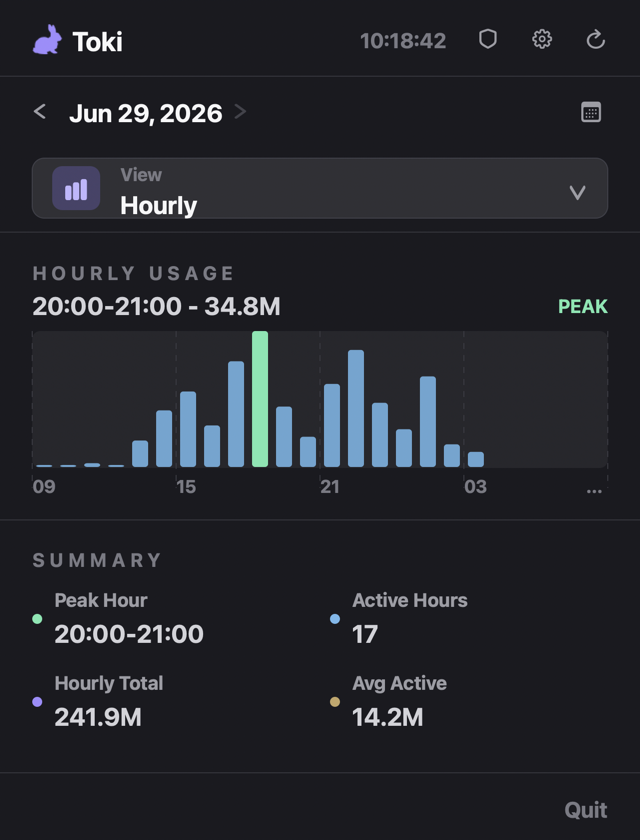
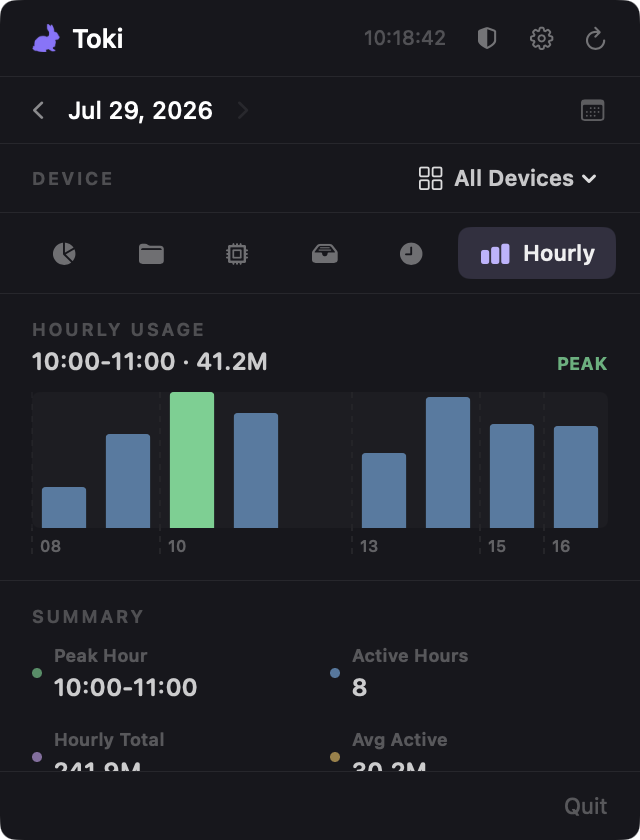
docs(readme): refresh screenshots and feature details

diff --git a/README.md b/README.md
@@ -10,10 +10,11 @@ Toki is a local-first macOS menu bar app for tracking token usage, cost,
 project attribution, and AI work time across Claude Code, Codex, Hermes,
 Cursor, Gemini CLI, GJC, OpenCode, and OpenClaw.
 
-It reads each tool's local usage store and gives you a single popover for daily
-totals, date ranges, exports, and security checks. Optional end-to-end encrypted
-remote sync can add those same supported local sources from Linux/Ubuntu or
-other macOS computers without giving Toki SSH or filesystem access.
+It reads each tool's local usage store and gives you a six-tab popover for daily
+totals, date ranges, projects, models, sources, work time, hourly usage, exports,
+and security checks. Optional end-to-end encrypted remote sync can add those
+same supported local sources from Linux/Ubuntu or other macOS computers without
+giving Toki SSH or filesystem access.
 
 ---
 
@@ -21,11 +22,11 @@ other macOS computers without giving Toki SSH or filesystem access.
 
 | Overview | Projects | Models |
 | --- | --- | --- |
-| <img src="Screenshots/screenshot_overview.png" width="220" alt="Overview view showing total tokens and period totals" /> | <img src="Screenshots/screenshot_projects.png" width="220" alt="Projects view showing attributed cost and sessions" /> | <img src="Screenshots/screenshot_models.png" width="220" alt="Models view showing token and cost breakdown by model, including GJC" /> |
+| <img src="Screenshots/screenshot_overview.png" width="220" alt="Overview tab showing total tokens and seven-day, thirty-day, and all-time totals" /> | <img src="Screenshots/screenshot_projects.png" width="220" alt="Projects tab showing attribution summary and top project usage" /> | <img src="Screenshots/screenshot_models.png" width="220" alt="Models tab showing token and cost breakdown with relative token-share bars" /> |
 
-| Sources | Time | Hourly |
-| --- | --- | --- |
-| <img src="Screenshots/screenshot_sources.png" width="220" alt="Sources view with CSV and JSON export controls and GJC reader status" /> | <img src="Screenshots/screenshot_time.png" width="220" alt="Time view comparing direct, delegated, wall-clock, and parallel work time" /> | <img src="Screenshots/screenshot_hourly.png" width="220" alt="Hourly view with hourly usage chart and peak hour summary" /> |
+| Sources | Time | Hourly | Settings |
+| --- | --- | --- | --- |
+| <img src="Screenshots/screenshot_sources.png" width="220" alt="Sources tab with CSV and JSON export controls, per-tool usage, and reader status" /> | <img src="Screenshots/screenshot_time.png" width="220" alt="Time tab comparing direct, delegated, wall-clock, and parallel work time" /> | <img src="Screenshots/screenshot_hourly.png" width="220" alt="Hourly tab with usage chart and peak-hour summary" /> | <img src="Screenshots/screenshot_settings.png" width="220" alt="Settings display controls for zero rows, menu bar cost, pricing updates, and launch at login" /> |
 
 ---
 
@@ -33,12 +34,14 @@ other macOS computers without giving Toki SSH or filesystem access.
 
 - **Daily and ranged usage**: total, input, output, cache read/write, reasoning
   tokens, cache hit rate, and estimated cost.
-- **Projects and sessions**: cost and token attribution when logs expose enough
-  project or session context.
+- **Six focused views**: Overview, Projects, Models, Sources, Time, and Hourly
+  stay one click away in the compact tab bar.
+- **Projects and sessions**: cost and token attribution with expandable project
+  and session lists when logs expose enough context.
 - **Models**: per-model token totals, cost estimates, active time, and
-  unpriced/context-only rows.
+  proportional token-share bars, plus unpriced/context-only rows.
 - **Sources**: per-agent totals, reader status diagnostics, and CSV/JSON copy
-  exports.
+  exports. Reader failures also surface as a header badge that opens Sources.
 - **Work time**: direct main-agent time, delegated subagent time, wall-clock
   overlap, stream counts, and parallel multiplier.
 - **Hourly usage**: active hours, peak hour, average active hour, and top-hour
@@ -76,24 +79,35 @@ rotation, and the full threat model.
 
 ## Privacy And Data Notes
 
-- Local readers do not make network requests. Remote sync is disabled until a
-  Hub is explicitly configured.
+- Local usage collection stays on-device. Automatic model-pricing updates
+  (enabled by default) download LiteLLM's public pricing catalog at most once
+  every 24 hours; no usage data is sent. Remote sync remains opt-in.
 - Remote sync uploads only authenticated encrypted usage snapshots; raw logs,
   databases, prompts/responses, paths, and audit findings remain on the source
   computer.
 - Security audit evidence is masked in the UI.
-- Costs are estimates from bundled model pricing. Unknown prices remain visible
-  as unpriced rows instead of being silently folded into totals.
+- Cost estimates prefer curated bundled prices and use downloaded prices only
+  as a fallback for otherwise unknown models.
+- Unknown prices remain visible as unpriced rows instead of being silently
+  folded into totals.
 - Project/session attribution depends on what each agent records locally; rows
   with weaker attribution are marked as inferred or unknown.
 
 ## Controls
 
-- Click the menu bar icon to open the usage popover.
+- Click the menu bar icon to open the usage popover; right-click it for
+  **Open Usage Panel** and **Quit Toki**.
+- Enable `Show today's cost in menu bar` to keep the estimated daily cost beside
+  the icon. Hover it for today's token total and pricing/reader caveats.
+- Switch among Overview, Projects, Models, Sources, Time, and Hourly from the
+  six-tab navigation bar.
 - Use the date picker for a single day or custom date range.
 - Use the shield button to run the local security audit.
+- Use the amber reader-failure badge to jump directly to Sources diagnostics.
 - Use settings to choose a refresh interval, enable or disable readers, show
-  zero-value source rows, and launch Toki at login.
+  zero-value source rows, and launch Toki at login. Keep
+  `Update model pricing automatically` enabled to refresh fallback pricing once
+  per day.
 - Use the Remote Sync settings to connect a Hub, provision/revoke devices, and
   choose each Agent's retention and interval.
 - Use the refresh button for an immediate read; otherwise Toki refreshes on the
